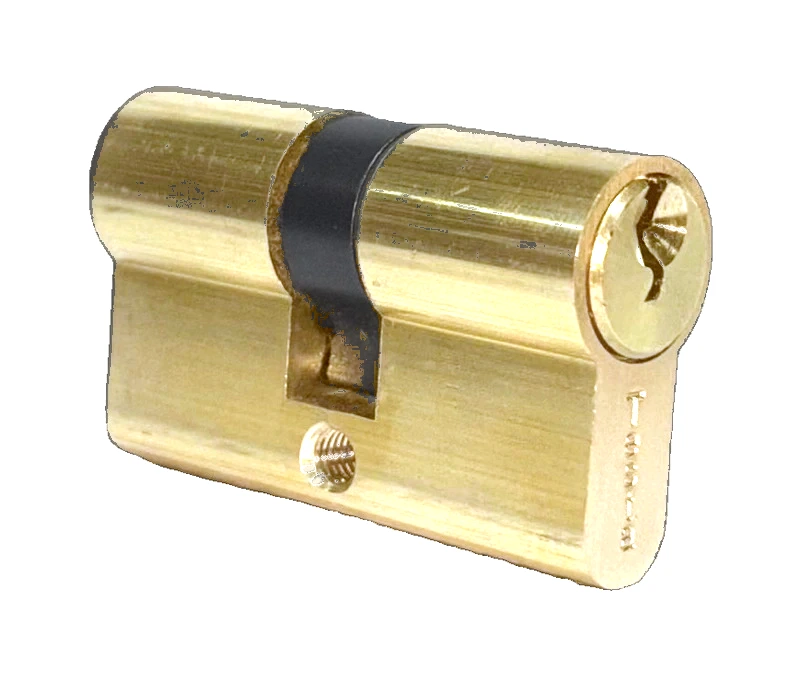
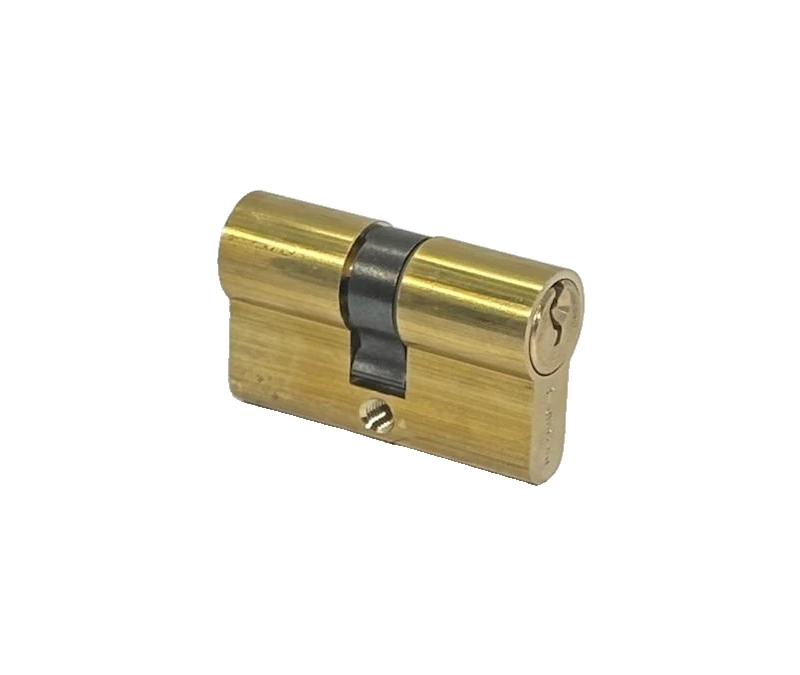
Update security cylinder photos (010-27/27, 010-27/33, 010-30/45N)

diff --git a/index.html b/index.html
@@ -722,7 +722,7 @@
             <div class="prod-info"><span class="prod-code">010-27/27</span><h4 data-i18n="p20t">Κύλινδρος ασφαλείας 54 χιλ.</h4><p data-i18n="p20d">Ελληνικός, με 3 κλειδιά.</p></div>
           </article>
           <article class="prod-card" data-spec-el="Τύπος: Ελληνικός κύλινδρος ασφαλείας|Κέντρο: 27x33mm (60mm συνολικό μήκος)|Φινίρισμα: Ορείχαλκο|Περιλαμβάνει 3 κλειδιά" data-spec-es="Tipo: Cilindro de seguridad griego|Entrada: 27x33mm (60mm de longitud total)|Acabado: Latón|Incluye 3 llaves">
-            <div class="prod-photo"><img src="images/product-21.webp" loading="lazy" alt="Κύλινδρος ασφαλείας 60 χιλ. Ελληνικός" data-i18n-alt="alt.p21"></div>
+            <div class="prod-photo"><img src="images/cylinder-010-27-33.webp" loading="lazy" alt="Κύλινδρος ασφαλείας 60 χιλ. Ελληνικός" data-i18n-alt="alt.p21"></div>
             <div class="prod-info"><span class="prod-code">010-27/33</span><h4 data-i18n="p21t">Κύλινδρος ασφαλείας 60 χιλ.</h4><p data-i18n="p21d">Ελληνικός, με 3 κλειδιά.</p></div>
           </article>
           <article class="prod-card" data-spec-el="Τύπος: Ελληνικός κύλινδρος ασφαλείας|Κέντρο: 30x45mm (75mm συνολικό μήκος)|Φινίρισμα: Νίκελ|Περιλαμβάνει 3 κλειδιά" data-spec-es="Tipo: Cilindro de seguridad griego|Entrada: 30x45mm (75mm de longitud total)|Acabado: Níquel|Incluye 3 llaves">

diff --git a/de/index.html b/de/index.html
@@ -722,7 +722,7 @@
             <div class="prod-info"><span class="prod-code">010-27/27</span><h4 data-i18n="p20t">Sicherheitszylinder 54mm</h4><p data-i18n="p20d">Griechische Fertigung, mit 3 Schlüsseln.</p></div>
           </article>
           <article class="prod-card" data-spec-el="Τύπος: Ελληνικός κύλινδρος ασφαλείας|Κέντρο: 27x33mm (60mm συνολικό μήκος)|Φινίρισμα: Ορείχαλκο|Περιλαμβάνει 3 κλειδιά" data-spec-es="Tipo: Cilindro de seguridad griego|Entrada: 27x33mm (60mm de longitud total)|Acabado: Latón|Incluye 3 llaves">
-            <div class="prod-photo"><img src="../images/product-21.webp" loading="lazy" alt="Sicherheitszylinder 60mm, griechischer Typ" data-i18n-alt="alt.p21"></div>
+            <div class="prod-photo"><img src="../images/cylinder-010-27-33.webp" loading="lazy" alt="Sicherheitszylinder 60mm, griechischer Typ" data-i18n-alt="alt.p21"></div>
             <div class="prod-info"><span class="prod-code">010-27/33</span><h4 data-i18n="p21t">Sicherheitszylinder 60mm</h4><p data-i18n="p21d">Griechische Fertigung, mit 3 Schlüsseln.</p></div>
           </article>
           <article class="prod-card" data-spec-el="Τύπος: Ελληνικός κύλινδρος ασφαλείας|Κέντρο: 30x45mm (75mm συνολικό μήκος)|Φινίρισμα: Νίκελ|Περιλαμβάνει 3 κλειδιά" data-spec-es="Tipo: Cilindro de seguridad griego|Entrada: 30x45mm (75mm de longitud total)|Acabado: Níquel|Incluye 3 llaves">

diff --git a/es/index.html b/es/index.html
@@ -722,7 +722,7 @@
             <div class="prod-info"><span class="prod-code">010-27/27</span><h4 data-i18n="p20t">Cilindro de Seguridad 54mm</h4><p data-i18n="p20d">Fabricación griega, con 3 llaves.</p></div>
           </article>
           <article class="prod-card" data-spec-el="Τύπος: Ελληνικός κύλινδρος ασφαλείας|Κέντρο: 27x33mm (60mm συνολικό μήκος)|Φινίρισμα: Ορείχαλκο|Περιλαμβάνει 3 κλειδιά" data-spec-es="Tipo: Cilindro de seguridad griego|Entrada: 27x33mm (60mm de longitud total)|Acabado: Latón|Incluye 3 llaves">
-            <div class="prod-photo"><img src="../images/product-21.webp" loading="lazy" alt="Cilindro de Seguridad 60mm, tipo griego" data-i18n-alt="alt.p21"></div>
+            <div class="prod-photo"><img src="../images/cylinder-010-27-33.webp" loading="lazy" alt="Cilindro de Seguridad 60mm, tipo griego" data-i18n-alt="alt.p21"></div>
             <div class="prod-info"><span class="prod-code">010-27/33</span><h4 data-i18n="p21t">Cilindro de Seguridad 60mm</h4><p data-i18n="p21d">Fabricación griega, con 3 llaves.</p></div>
           </article>
           <article class="prod-card" data-spec-el="Τύπος: Ελληνικός κύλινδρος ασφαλείας|Κέντρο: 30x45mm (75mm συνολικό μήκος)|Φινίρισμα: Νίκελ|Περιλαμβάνει 3 κλειδιά" data-spec-es="Tipo: Cilindro de seguridad griego|Entrada: 30x45mm (75mm de longitud total)|Acabado: Níquel|Incluye 3 llaves">

diff --git a/fr/index.html b/fr/index.html
@@ -722,7 +722,7 @@
             <div class="prod-info"><span class="prod-code">010-27/27</span><h4 data-i18n="p20t">Cylindre de Sécurité 54mm</h4><p data-i18n="p20d">Fabrication grecque, avec 3 clés.</p></div>
           </article>
           <article class="prod-card" data-spec-el="Τύπος: Ελληνικός κύλινδρος ασφαλείας|Κέντρο: 27x33mm (60mm συνολικό μήκος)|Φινίρισμα: Ορείχαλκο|Περιλαμβάνει 3 κλειδιά" data-spec-es="Tipo: Cilindro de seguridad griego|Entrada: 27x33mm (60mm de longitud total)|Acabado: Latón|Incluye 3 llaves">
-            <div class="prod-photo"><img src="../images/product-21.webp" loading="lazy" alt="Cylindre de Sécurité 60mm, type grec" data-i18n-alt="alt.p21"></div>
+            <div class="prod-photo"><img src="../images/cylinder-010-27-33.webp" loading="lazy" alt="Cylindre de Sécurité 60mm, type grec" data-i18n-alt="alt.p21"></div>
             <div class="prod-info"><span class="prod-code">010-27/33</span><h4 data-i18n="p21t">Cylindre de Sécurité 60mm</h4><p data-i18n="p21d">Fabrication grecque, avec 3 clés.</p></div>
           </article>
           <article class="prod-card" data-spec-el="Τύπος: Ελληνικός κύλινδρος ασφαλείας|Κέντρο: 30x45mm (75mm συνολικό μήκος)|Φινίρισμα: Νίκελ|Περιλαμβάνει 3 κλειδιά" data-spec-es="Tipo: Cilindro de seguridad griego|Entrada: 30x45mm (75mm de longitud total)|Acabado: Níquel|Incluye 3 llaves">

diff --git a/it/index.html b/it/index.html
@@ -722,7 +722,7 @@
             <div class="prod-info"><span class="prod-code">010-27/27</span><h4 data-i18n="p20t">Cilindro di Sicurezza 54mm</h4><p data-i18n="p20d">Di produzione greca, con 3 chiavi.</p></div>
           </article>
           <article class="prod-card" data-spec-el="Τύπος: Ελληνικός κύλινδρος ασφαλείας|Κέντρο: 27x33mm (60mm συνολικό μήκος)|Φινίρισμα: Ορείχαλκο|Περιλαμβάνει 3 κλειδιά" data-spec-es="Tipo: Cilindro de seguridad griego|Entrada: 27x33mm (60mm de longitud total)|Acabado: Latón|Incluye 3 llaves">
-            <div class="prod-photo"><img src="../images/product-21.webp" loading="lazy" alt="Cilindro di Sicurezza 60mm, tipo greco" data-i18n-alt="alt.p21"></div>
+            <div class="prod-photo"><img src="../images/cylinder-010-27-33.webp" loading="lazy" alt="Cilindro di Sicurezza 60mm, tipo greco" data-i18n-alt="alt.p21"></div>
             <div class="prod-info"><span class="prod-code">010-27/33</span><h4 data-i18n="p21t">Cilindro di Sicurezza 60mm</h4><p data-i18n="p21d">Di produzione greca, con 3 chiavi.</p></div>
           </article>
           <article class="prod-card" data-spec-el="Τύπος: Ελληνικός κύλινδρος ασφαλείας|Κέντρο: 30x45mm (75mm συνολικό μήκος)|Φινίρισμα: Νίκελ|Περιλαμβάνει 3 κλειδιά" data-spec-es="Tipo: Cilindro de seguridad griego|Entrada: 30x45mm (75mm de longitud total)|Acabado: Níquel|Incluye 3 llaves">

diff --git a/en/index.html b/en/index.html
@@ -722,7 +722,7 @@
             <div class="prod-info"><span class="prod-code">010-27/27</span><h4 data-i18n="p20t">Security Cylinder 54mm</h4><p data-i18n="p20d">Greek-made, with 3 keys.</p></div>
           </article>
           <article class="prod-card" data-spec-el="Τύπος: Ελληνικός κύλινδρος ασφαλείας|Κέντρο: 27x33mm (60mm συνολικό μήκος)|Φινίρισμα: Ορείχαλκο|Περιλαμβάνει 3 κλειδιά" data-spec-es="Tipo: Cilindro de seguridad griego|Entrada: 27x33mm (60mm de longitud total)|Acabado: Latón|Incluye 3 llaves">
-            <div class="prod-photo"><img src="../images/product-21.webp" loading="lazy" alt="Security Cylinder 60mm, Greek-style" data-i18n-alt="alt.p21"></div>
+            <div class="prod-photo"><img src="../images/cylinder-010-27-33.webp" loading="lazy" alt="Security Cylinder 60mm, Greek-style" data-i18n-alt="alt.p21"></div>
             <div class="prod-info"><span class="prod-code">010-27/33</span><h4 data-i18n="p21t">Security Cylinder 60mm</h4><p data-i18n="p21d">Greek-made, with 3 keys.</p></div>
           </article>
           <article class="prod-card" data-spec-el="Τύπος: Ελληνικός κύλινδρος ασφαλείας|Κέντρο: 30x45mm (75mm συνολικό μήκος)|Φινίρισμα: Νίκελ|Περιλαμβάνει 3 κλειδιά" data-spec-es="Tipo: Cilindro de seguridad griego|Entrada: 30x45mm (75mm de longitud total)|Acabado: Níquel|Incluye 3 llaves">
